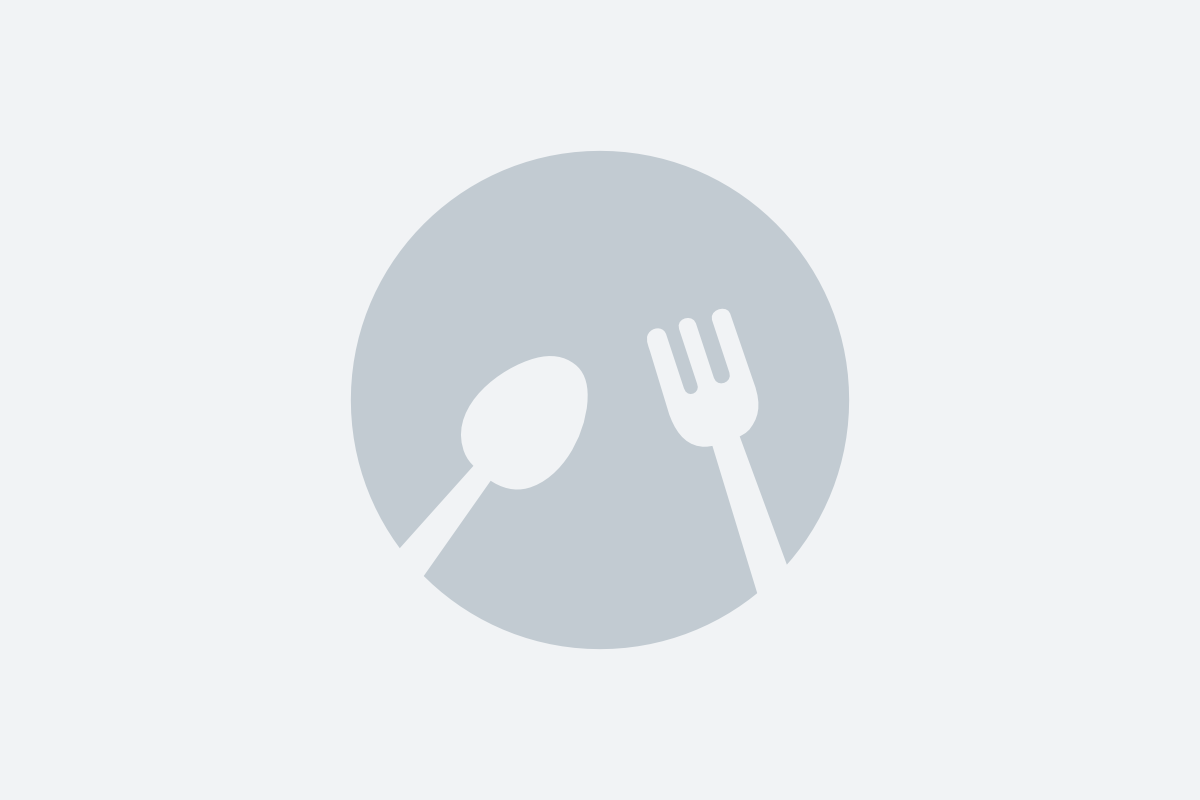
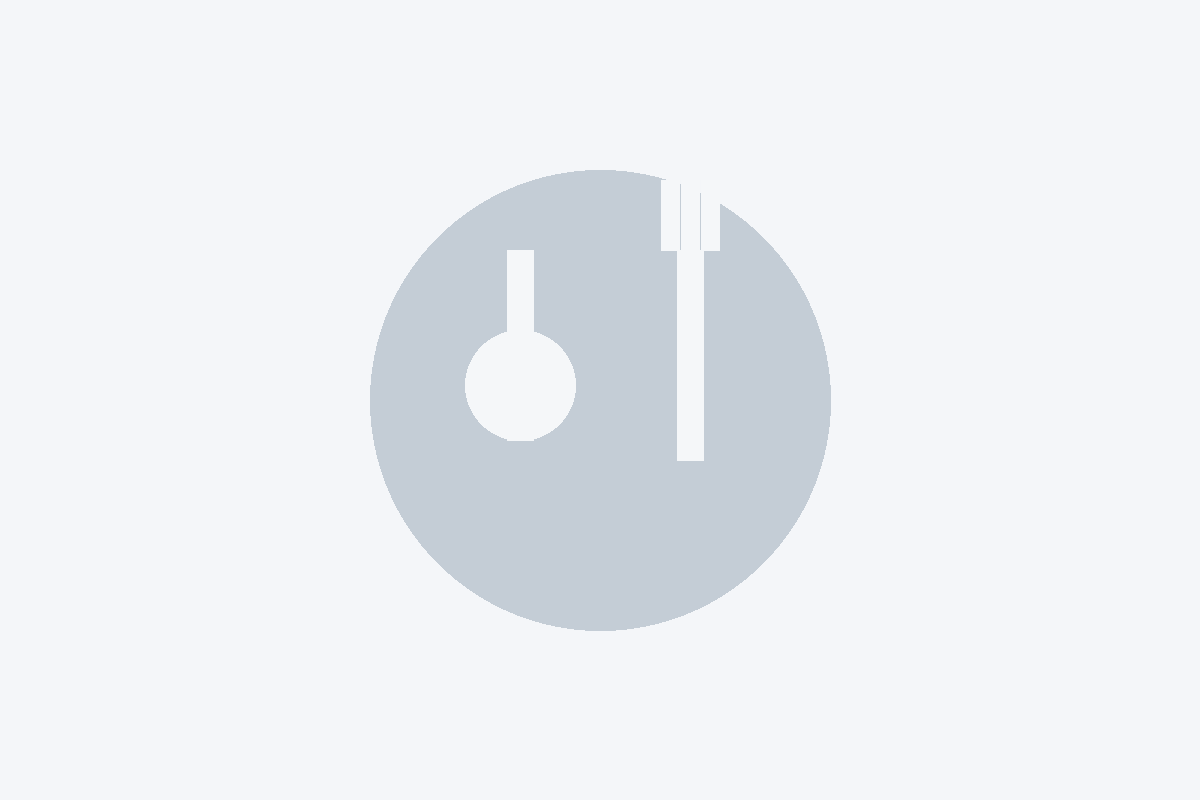
Use provided PNG placeholder for missing menu images

Changed region(s): [[0.2775, 0.1875, 0.7092, 0.8125]]

diff --git a/backend/config/settings.py b/backend/config/settings.py
@@ -54,7 +54,7 @@ MEDIA_URL = '/media/'
 MEDIA_ROOT = BASE_DIR / 'media'
 MENU_IMAGE_PLACEHOLDER_URL = os.getenv(
     "MENU_IMAGE_PLACEHOLDER_URL",
-    "/media/placeholders/menu-placeholder.svg",
+    "/media/placeholders/menu_placeholder.png",
 )
 
 CORS_ALLOW_ALL_ORIGINS = True
